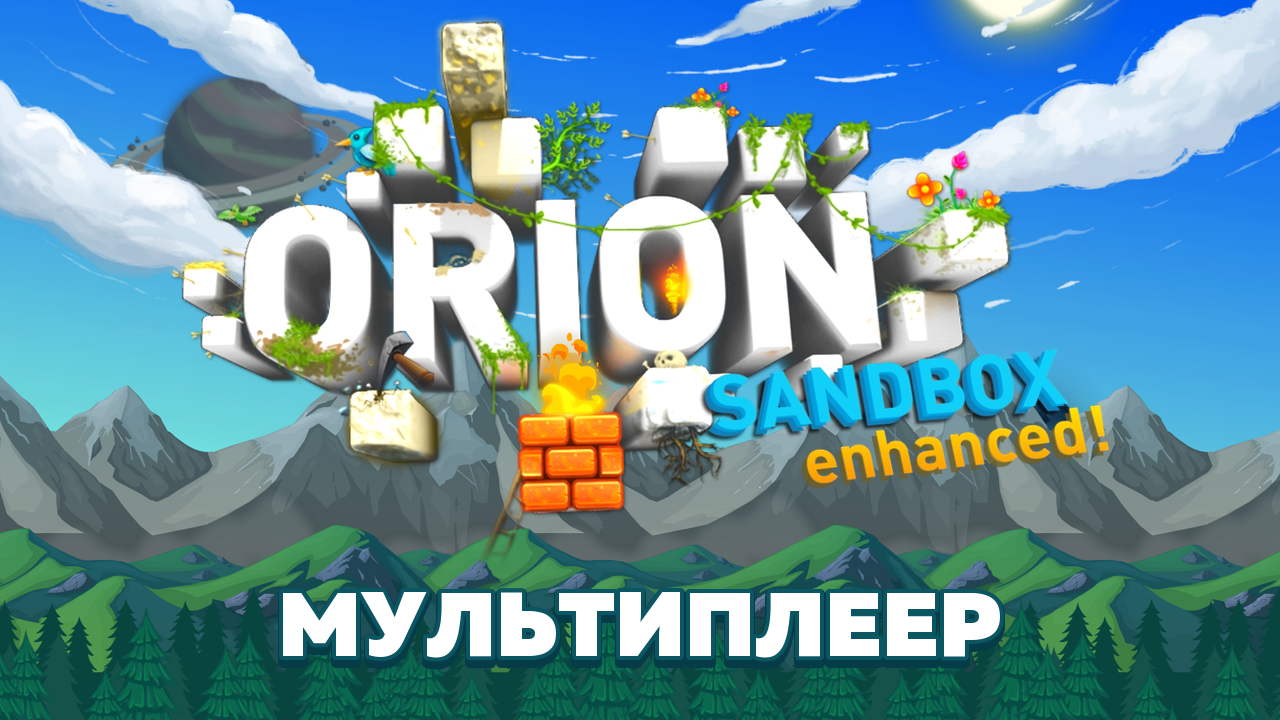
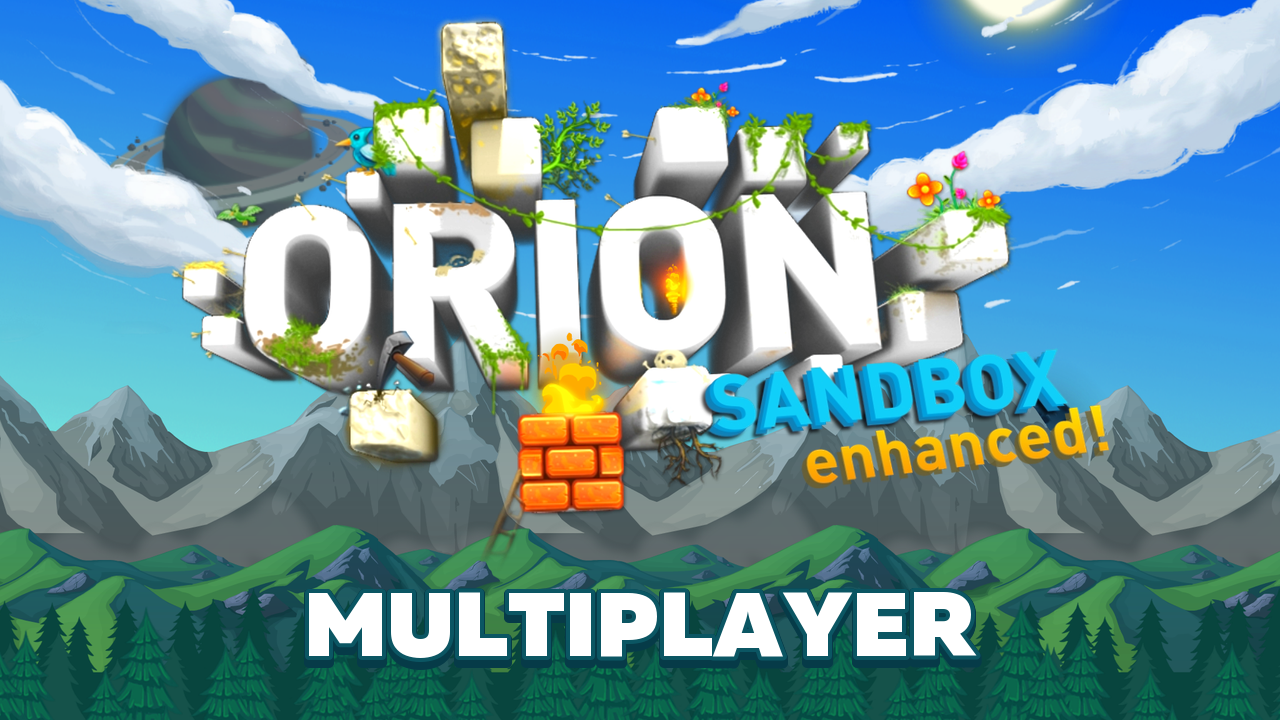
Use English MULTIPLAYER lettering on the repository cover

Changed region(s): [[0.2188, 0.7944, 0.8125, 0.9472]]

diff --git a/tools/build_banner.py b/tools/build_banner.py
@@ -32,7 +32,7 @@ def main():
     logo = logo.resize((logo_width, round(logo.height * logo_width / logo.width)), Image.Resampling.LANCZOS)
     cover.alpha_composite(logo, ((width - logo.width) // 2, 12))
 
-    text = "МУЛЬТИПЛЕЕР"
+    text = "MULTIPLAYER"
     size = 91
     draw = ImageDraw.Draw(cover)
     while True:
@@ -50,7 +50,7 @@ def main():
 
     args.output.parent.mkdir(parents=True, exist_ok=True)
     metadata = PngImagePlugin.PngInfo()
-    metadata.add_itxt("Description", "Original Orion Sandbox Enhanced menu artwork with the added label МУЛЬТИПЛЕЕР")
+    metadata.add_itxt("Description", "Original Orion Sandbox Enhanced menu artwork with the added label MULTIPLAYER")
     metadata.add_text("Rights", "Original game artwork and lettering remain with their respective owners; outside the project MIT license")
     cover.convert("RGB").save(args.output, optimize=True, pnginfo=metadata)
     report = {
@@ -62,7 +62,7 @@ def main():
             "logo": {"swf_character_id": 164, "source": "main_screen.main_menu_gamename, frame 1 at 2x", "sha256": hashlib.sha256(args.logo.read_bytes()).hexdigest()},
             "lettering": {"swf_character_id": 1278, "name": "ZantrokeRuFrEs", "font_file_bundled": False},
         },
-        "edits": "Crop and resize the original background; composite the original logo; add the exact Cyrillic label. No generated artwork.",
+        "edits": "Crop and resize the original background; composite the original logo; add the English label MULTIPLAYER. No generated artwork.",
         "rights": "Original game artwork and lettering are outside MIT; see THIRD_PARTY_NOTICES.md",
         "sha256": hashlib.sha256(args.output.read_bytes()).hexdigest(),
     }

diff --git a/THIRD_PARTY_NOTICES.md b/THIRD_PARTY_NOTICES.md
@@ -12,8 +12,8 @@ license. The installed launcher and setup use this same identification icon.
 ## Repository cover artwork
 
 The README cover (`docs/assets/banner.png`) uses the original Orion Sandbox
-Enhanced main-menu background and title logo, with the added Cyrillic word
-«МУЛЬТИПЛЕЕР» rendered using the game's lettering. The underlying artwork, logo,
+Enhanced main-menu background and title logo, with the added English word
+"MULTIPLAYER" rendered using the game's lettering. The underlying artwork, logo,
 and lettering retain their respective rights and are outside MIT. The original
 font and raw source images are not included in the source repository. See
 `docs/assets/banner.json` and `docs/assets/README.md` for provenance and edits.

diff --git a/README.ru.md b/README.ru.md
@@ -1,4 +1,4 @@
-<p align="center"><img src="docs/assets/banner.png" alt="OrionMultiplayerEnhanced — оригинальный фон Orion и надпись МУЛЬТИПЛЕЕР" width="880"></p>
+<p align="center"><img src="docs/assets/banner.png" alt="OrionMultiplayerEnhanced — оригинальный фон Orion и надпись MULTIPLAYER" width="880"></p>
 
 <p align="center"><strong>Orion Sandbox Enhanced со всеми нашими изменениями.</strong><br>Неофициальная модифицированная версия: одиночные и сетевые миры, персонажи, карта, доработки интерфейса и исправления.</p>
 

diff --git a/README.md b/README.md
@@ -1,4 +1,4 @@
-<p align="center"><img src="docs/assets/banner.png" alt="OrionMultiplayerEnhanced — original Orion menu artwork with МУЛЬТИПЛЕЕР lettering" width="880"></p>
+<p align="center"><img src="docs/assets/banner.png" alt="OrionMultiplayerEnhanced — original Orion menu artwork with MULTIPLAYER lettering" width="880"></p>
 
 <p align="center"><strong>Orion Sandbox Enhanced, with all our changes.</strong><br>An unofficial modified edition: single-player and multiplayer worlds, characters, maps, interface improvements, and fixes.</p>
 

diff --git a/docs/assets/README.md b/docs/assets/README.md
@@ -1,7 +1,7 @@
 # Repository artwork
 
 `banner.png` is the README cover: the original Orion Sandbox Enhanced main-menu
-background and title logo, with the added Cyrillic label **МУЛЬТИПЛЕЕР**. It has
+background and title logo, with the added English label **MULTIPLAYER**. It has
 no menu controls, window frame, character portrait, or generated artwork.
 
 The source artwork is taken from the locally owned game. The background is SWF
